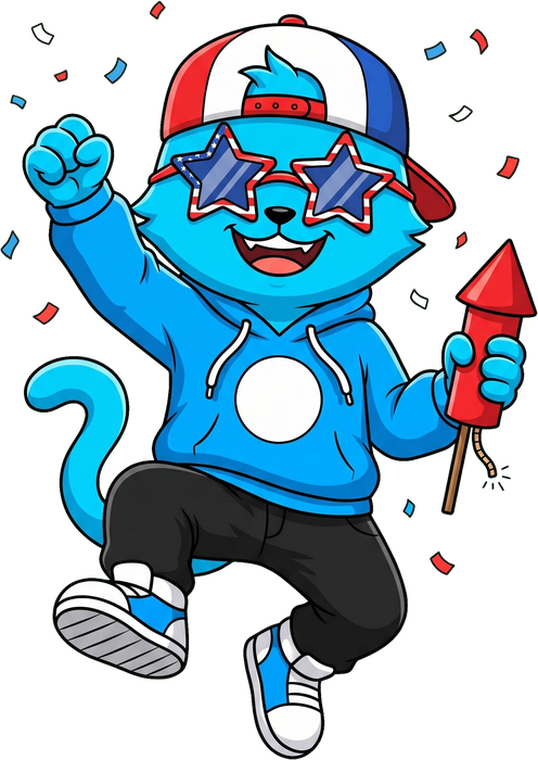
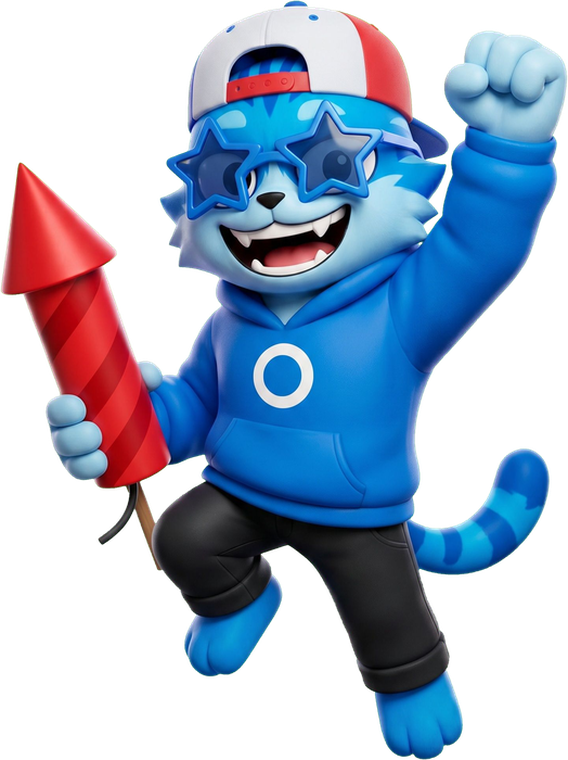
LIVE MINT: contract deployed to Monad mainnet + lifelike scene pass
Contract 0x258F09737Cf8549c8c73EBE22F4156e8C405e6C6 (Monad mainnet):
- Audited pre-deploy: added ReentrancyGuard on buy/spin, sale-window sanity
  checks, fixed a non-ASCII string that failed compilation; compiled clean
  with solc 0.8.28 + OpenZeppelin 5.0.2 (bytecode 9,188 bytes)
- Deployed with sale window Jul 4 00:00 -> Jul 6 00:00 ET, baseURI set to the
  live metadata, ownership transferred to the treasury (deployer burner
  retains no power)
- On-chain state verified: prices 400/3000, pools populated, saleLive=false

Marketplace wired to the real contract:
- BUY -> contract.buy(id) (mints the exact piece, funds auto-forward to
  treasury, token immediately tradeable on OpenSea w/ 5% royalties)
- SPIN -> contract.spin() (on-chain weighted gacha)
- contract address served via collection.json

Scene (lifelike pass per feedback):
- Monshi & Toshi celebration standees regenerated in the glossy 3D-render
  style (was flat cartoon) — Monshi w/ sparkler+flag+Uncle Sam hat, Toshi
  jumping w/ rocket, star shades, backwards RWB cap
- Wireframe box skyline replaced with a photoreal night-harbor city pano
  wrapped as the scene backdrop (mirrored to hide seams, haze blend at floor)

Claude-Session: https://claude.ai/code/session_014skJoMzzz4GsdHJ96MaCeE

diff --git a/marketplace.html b/marketplace.html
@@ -84,6 +84,8 @@ var RANK={Common:0,Uncommon:1,Rare:2,Epic:3,Legendary:4};
 var BRAND={purple:0x6b27de,indigo:0x7d69ed,teal:0x00a29e};
 var $=function(i){return document.getElementById(i);};
 var TREASURY='0xece5d15e567c801c835029a49b2e4067b0eb63aa';
+var CONTRACT='0x258F09737Cf8549c8c73EBE22F4156e8C405e6C6';
+var SEL_BUY='0xd96a094a',SEL_SPIN='0xf0acd7d5';
 var canvas=$('c');
 var renderer=new THREE.WebGLRenderer({canvas:canvas,antialias:true,alpha:true});renderer.setPixelRatio(Math.min(devicePixelRatio,2));
 var scene=new THREE.Scene();scene.fog=new THREE.FogExp2(0x0a0430,0.018);
@@ -110,13 +112,18 @@ orb2.scale.set(30,30,1);orb2.position.set(52,22,-80);scene.add(orb2);
 // stars
 var sg=new THREE.BufferGeometry(),sv=[];for(var i=0;i<500;i++){var R=90+Math.random()*60,a=Math.random()*6.28,b=Math.random()*1.2;sv.push(Math.sin(a)*Math.cos(b)*R,Math.abs(Math.sin(b))*R*0.6+2,Math.cos(a)*Math.cos(b)*R);}
 sg.setAttribute('position',new THREE.Float32BufferAttribute(sv,3));scene.add(new THREE.Points(sg,new THREE.PointsMaterial({color:0xcfc4ff,size:.5,transparent:true,opacity:.75,fog:false})));
-// distant city skyline ring (brand purple silhouette)
-var cityMat=new THREE.MeshBasicMaterial({color:0x1a0d3e});
-for(var b=0;b<70;b++){var a=(b/70)*Math.PI*2,rr=52+Math.random()*10,h=6+Math.random()*24;
-  var bd=new THREE.Mesh(new THREE.BoxGeometry(3+Math.random()*3,h,3),cityMat);
-  bd.position.set(Math.sin(a)*rr,h/2-1,Math.cos(a)*rr);scene.add(bd);
-  var edge=new THREE.Mesh(new THREE.BoxGeometry(3.05,0.15,3.05),new THREE.MeshBasicMaterial({color:b%3?0x6b27de:0x00a29e,transparent:true,opacity:.6}));
-  edge.position.set(bd.position.x,h-1,bd.position.z);scene.add(edge);}
+// photoreal night-city skyline backdrop (mirrored pano wrapped on a cylinder)
+(function(){var tl=new THREE.TextureLoader();
+tl.load('/public/fireworks-nft/city-pano.jpg',function(tx){
+  tx.wrapS=THREE.MirroredRepeatWrapping;tx.repeat.set(3,1);tx.anisotropy=8;
+  var cyl=new THREE.Mesh(new THREE.CylinderGeometry(72,72,34,64,1,true),
+    new THREE.MeshBasicMaterial({map:tx,side:THREE.BackSide,fog:false}));
+  cyl.position.y=14.5;scene.add(cyl);
+  // soft haze blend where backdrop meets the floor
+  var haze=new THREE.Mesh(new THREE.CylinderGeometry(71,71,9,64,1,true),
+    new THREE.MeshBasicMaterial({color:0x0d0728,transparent:true,opacity:.85,side:THREE.BackSide,fog:false}));
+  haze.position.y=1.5;scene.add(haze);
+});})();
 // reflective floor
 var floorMat=new THREE.MeshStandardMaterial({color:0x0a0628,metalness:.85,roughness:.28});
 var floor=new THREE.Mesh(new THREE.PlaneGeometry(300,300),floorMat);floor.rotation.x=-Math.PI/2;floor.position.y=0;scene.add(floor);
@@ -279,7 +286,7 @@ async function doSpin(){if(spinning)return;var btn=$('spin');
   if(!WALLET){toast('Connect a wallet to spin');return;}
   var wei='0x'+(BigInt(250)*(BigInt(10)**BigInt(18))).toString(16);
   btn.disabled=true;btn.textContent='CONFIRM 250 MON…';
-  try{await window.ethereum.request({method:'eth_sendTransaction',params:[{from:WALLET,to:TREASURY,value:wei}]});}
+  try{await window.ethereum.request({method:'eth_sendTransaction',params:[{from:WALLET,to:CONTRACT,value:wei,data:SEL_SPIN}]});}
   catch(e){toast('Spin cancelled');btn.disabled=false;btn.textContent='🎡 SPIN · 250 MON';return;}
   spinRarity=drawRarity();
   var opts=[];for(var si=0;si<WN;si++)if(WHEEL_SEG[si]===spinRarity)opts.push(si);
@@ -325,7 +332,7 @@ var WALLET=null;
 $('wallet').onclick=async function(){try{if(window.MONSHI&&MONSHI.connectWallet){var w=await MONSHI.connectWallet();if(w){WALLET=w;this.textContent=w.slice(0,6)+'…'+w.slice(-4);toast('Wallet connected');return;}}}catch(e){}toast('No wallet found — install MetaMask/Rabby');};
 $('buy').onclick=async function(){var it=this._it;if(!it)return;
   var ph=phase(); if(ph!=='live'){gateToast(ph);return;}
-  if(!WALLET){try{WALLET=await MONSHI.connectWallet();$('wallet').textContent=WALLET?WALLET.slice(0,6)+'…'+WALLET.slice(-4):'CONNECT';}catch(e){}}if(!WALLET){toast('Connect a wallet first');return;}var wei='0x'+BigInt(Math.round(it.price*1e18)).toString(16);this.classList.add('busy');this.textContent='CONFIRM IN WALLET…';var btn=this;try{var tx=await window.ethereum.request({method:'eth_sendTransaction',params:[{from:WALLET,to:TREASURY,value:wei}]});toast('✅ Purchased '+it.name+' · tx '+tx.slice(0,10)+'…');btn.textContent='✓ PURCHASED';}catch(e){toast('Purchase cancelled');btn.classList.remove('busy');btn.textContent='BUY · '+it.price+' MON';}};
+  if(!WALLET){try{WALLET=await MONSHI.connectWallet();$('wallet').textContent=WALLET?WALLET.slice(0,6)+'…'+WALLET.slice(-4):'CONNECT';}catch(e){}}if(!WALLET){toast('Connect a wallet first');return;}var wei='0x'+BigInt(Math.round(it.price*1e18)).toString(16);this.classList.add('busy');this.textContent='CONFIRM IN WALLET…';var btn=this;try{var data=SEL_BUY+BigInt(it.id).toString(16).padStart(64,'0');var tx=await window.ethereum.request({method:'eth_sendTransaction',params:[{from:WALLET,to:CONTRACT,value:wei,data:data}]});toast('✅ MINTED '+it.name+' · tx '+tx.slice(0,10)+'… · tradeable on OpenSea');btn.textContent='✓ PURCHASED';}catch(e){toast('Purchase cancelled');btn.classList.remove('busy');btn.textContent='BUY · '+it.price+' MON';}};
 // ── loop ──
 var clock=new THREE.Clock(),ready=false;
 function tick(){requestAnimationFrame(tick);var dt=Math.min(clock.getDelta(),0.05),t=clock.elapsedTime;
@@ -340,7 +347,7 @@ function tick(){requestAnimationFrame(tick);var dt=Math.min(clock.getDelta(),0.0
   if(!ready){ready=true;$('loading').style.display='none';}
 }
 $('spin').onclick=doSpin;
-fetch('/public/fireworks-nft/collection.json').then(function(r){return r.json();}).then(function(d){if(d.treasury)TREASURY=d.treasury;buildGallery(d.items||[]);pos.set(0,3.6,11);tick();}).catch(function(){buildGallery([]);tick();toast('Could not load collection');});
+fetch('/public/fireworks-nft/collection.json').then(function(r){return r.json();}).then(function(d){if(d.treasury)TREASURY=d.treasury;if(d.contract)CONTRACT=d.contract;buildGallery(d.items||[]);pos.set(0,3.6,11);tick();}).catch(function(){buildGallery([]);tick();toast('Could not load collection');});
 })();
 </script>
 </body></html>
